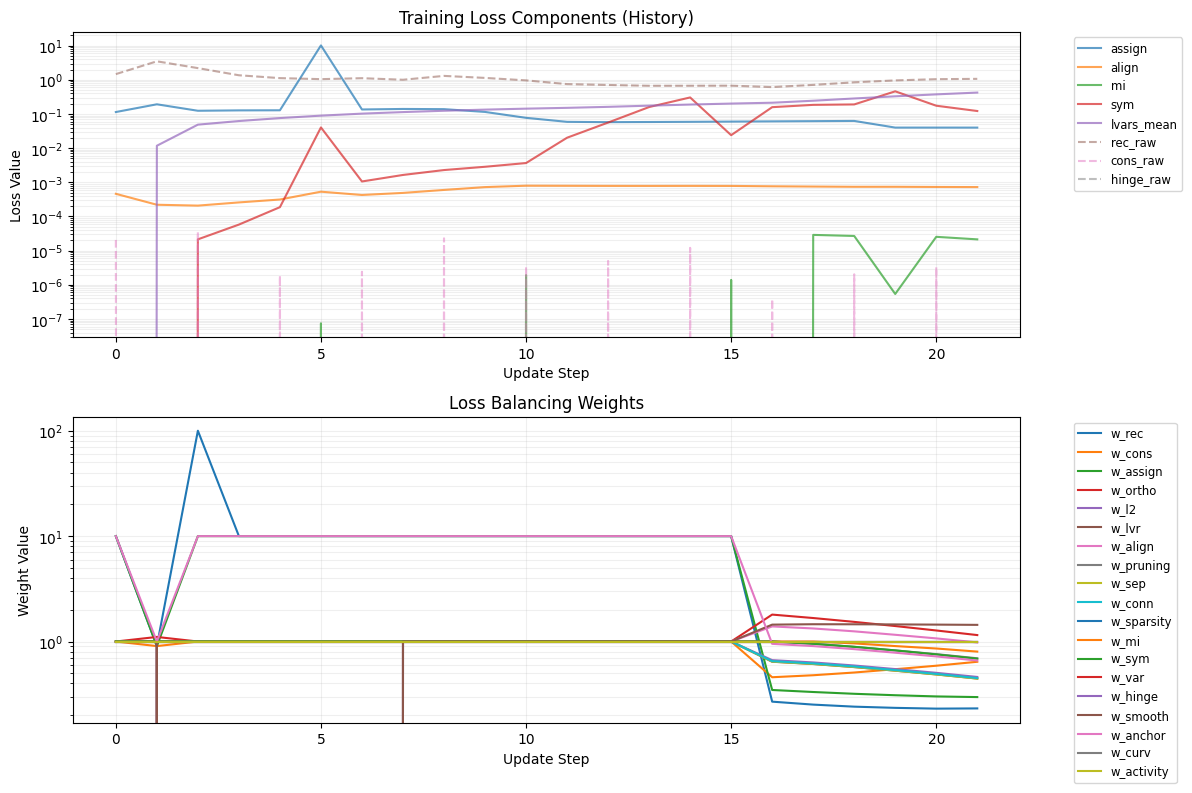
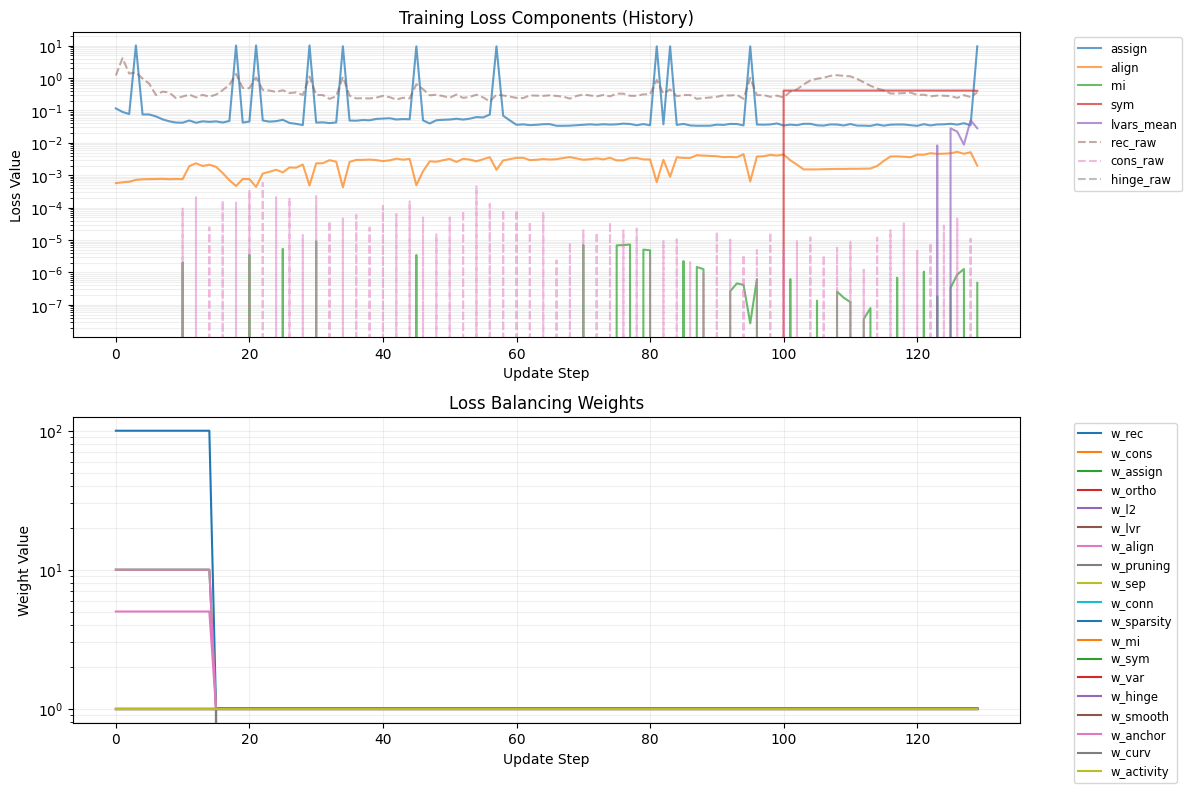
updated

diff --git a/engine.py b/engine.py
@@ -223,10 +223,6 @@ class Trainer:
         self.optimizer = optim.Adam(param_groups, lr=lr)
         self.criterion = torch.nn.MSELoss().to(device)
         self.stats = stats
-        
-        # Initialize GradNorm Balancer
-        self.grad_norm_balancer = GradNormBalancer(n_tasks=len(self.loss_groups), device=device)
-        self.gn_optimizer = optim.Adam(self.grad_norm_balancer.parameters(), lr=1e-2)
 
     def _prepare_param_groups(self, lr):
         h_net_params = []
@@ -297,18 +293,26 @@ class Trainer:
         
         return tau, hard, tf_ratio, entropy_weight
 
-    def _compute_hamiltonian_curv_loss(self, z_curr):
-        loss_curv = torch.tensor(0.0, device=self.device)
-        if self.model.hamiltonian:
-            with torch.set_grad_enabled(True):
-                z_in = z_curr.reshape(z_curr.size(0), -1).detach().requires_grad_(True)
-                z_in_ode = self.hardware.to_ode_device(z_in)
-                H_vals = self.model.ode_func.hamiltonian(z_in_ode)
-                H = H_vals.sum()
-                dH = torch.autograd.grad(H, z_in_ode, create_graph=True, retain_graph=True, allow_unused=True)[0]
-                if dH is not None:
-                    loss_curv = torch.norm(self.hardware.to_main_device(dH), p=2) + 0.01 * torch.mean(self.hardware.to_main_device(H_vals)**2)
-        return loss_curv
+    def _compute_hamiltonian_conservation_loss(self, z_preds):
+        """
+        Penalizes the variance of the Hamiltonian along the integrated trajectory.
+        This ensures the learned H is a true constant of motion.
+        """
+        if not self.model.hamiltonian or z_preds.size(0) < 2:
+            return torch.tensor(0.0, device=self.device)
+            
+        with torch.set_grad_enabled(True):
+            # z_preds: [T, B, K, D] -> flatten to [T*B, K*D]
+            T, B, K, D = z_preds.shape
+            z_flat = z_preds.reshape(-1, K * D)
+            z_in_ode = self.hardware.to_ode_device(z_flat)
+            
+            H_vals = self.model.ode_func.hamiltonian(z_in_ode)
+            H_vals = H_vals.view(T, B) # [T, B]
+            
+            # Variance over time for each batch element
+            H_var = torch.var(H_vals, dim=0).mean()
+            return self.hardware.to_main_device(H_var)
 
     def _compute_latent_smoothing_loss(self, z_preds):
         if z_preds.size(0) < 3:
@@ -441,15 +445,6 @@ class Trainer:
             1.0 * losses_all.get('temporal_consistency', 0.0)
         )
 
-        # OPTIMIZATION: Skip expensive losses if weight is zero
-        loss_curv = torch.tensor(0.0, device=self.device)
-        if is_stage2 and not is_stage1:
-             loss_curv = self._compute_hamiltonian_curv_loss(z_curr)
-
-        loss_sym = torch.tensor(0.0, device=self.device)
-        if self.symbolic_proxy is not None and not is_warmup:
-            loss_sym = self._compute_symbolic_loss(z_curr, is_warmup)
-
         if not is_warmup:
             progress_after_warmup = min(1.0, (epoch - int(max_epochs * 0.1)) / 100.0)
             target_integration_steps = max(4, int(progress_after_warmup * seq_len))
@@ -476,6 +471,15 @@ class Trainer:
                 z_preds = z_preds[:seq_len]
         else:
             z_preds = z_all_target
+
+        # OPTIMIZATION: Skip expensive losses if weight is zero
+        loss_curv = torch.tensor(0.0, device=self.device)
+        if is_stage2 and not is_stage1:
+             loss_curv = self._compute_hamiltonian_conservation_loss(z_preds)
+
+        loss_sym = torch.tensor(0.0, device=self.device)
+        if self.symbolic_proxy is not None and not is_warmup:
+            loss_sym = self._compute_symbolic_loss(z_curr, is_warmup)
 
         loss_l2 = torch.mean(z_preds**2) * 0.1
         z_vel = (z_preds[1:] - z_preds[:-1]) / dt
@@ -521,11 +525,15 @@ class Trainer:
         lvars = torch.clamp(self.model.log_vars, min=-6.0, max=5.0)
         raw_losses = {'rec': loss_rec, 'cons': loss_cons, 'assign': loss_assign, 'ortho': loss_ortho, 'l2': loss_l2, 'lvr': loss_lvr, 'align': loss_align, 'pruning': loss_pruning, 'sep': loss_sep, 'conn': loss_conn, 'sparsity': loss_sparsity, 'mi': loss_mi, 'sym': loss_sym, 'var': loss_var, 'hinge': loss_hinge, 'smooth': loss_smooth, 'anchor': loss_anchor, 'curv': loss_curv, 'activity': (torch.relu(1.0 - torch.norm(z_vel, dim=-1)).mean() if len(z_vel) > 0 else self.model.get_activity_penalty(z_preds)) * 1000.0}
         
-        weights = {k: (100.0 if is_stage1 and k == 'rec' else (10.0 if k in ['rec', 'assign', 'anchor'] else 1.0)) for k in raw_losses}
-        if epoch >= int(max_epochs * 0.75):
-            for i, k in enumerate(list(raw_losses.keys())[:17]): weights[k] = torch.exp(-lvars[i]) * loss_multipliers[i]
-        
-        if epoch < (max_epochs * 0.3): weights['l2'] = weights['lvr'] = weights['smooth'] = 0.0
+        # Base weights for stability during warmup/stage1
+        weights = {k: 1.0 for k in raw_losses}
+        if is_stage1:
+            weights['rec'] = 100.0
+            weights['assign'] = 10.0
+            weights['anchor'] = 10.0
+            weights['align'] = 5.0
+            # Suppress complex physics losses in stage 1
+            for k in ['curv', 'sym', 'lvr', 'smooth']: weights[k] = 0.0
         
         stage2_factor = (1.0 / (1 + np.exp(-12.0 * (min(1.0, (epoch - stage1_end) / max(1, int(max_epochs * 0.1))) - 0.5)))) if is_stage2 else 0.0
 
@@ -536,24 +544,17 @@ class Trainer:
             'SymbolicConsistencyLoss': self.loss_modules['SymbolicConsistencyLoss'](loss_sym * weights['sym'], stage2_factor, self.symbolic_weight)
         }
 
-        if epoch >= stage1_end:
+        # Apply learned uncertainty weighting (log_vars) after stage 1
+        loss = 0.0
+        if not is_stage1:
             for i, (name, h_loss) in enumerate(head_losses_dict.items()):
-                if i < 4: head_losses_dict[name] = h_loss * torch.exp(-lvars[i]) + lvars[i]
-
-        do_grad_norm = (epoch > int(max_epochs * 0.1)) and not is_stage1
-        if do_grad_norm:
-            gn_weights = self.grad_norm_balancer.get_weights()
-            head_names = ['ReconstructionLoss', 'StructuralLoss', 'PhysicalityLoss', 'SymbolicConsistencyLoss']
-            head_losses_list = [head_losses_dict[h] for h in head_names]
-            loss = sum(gn_weights[i] * head_losses_list[i] for i in range(len(head_names)))
-            loss.backward(retain_graph=True)
-            self.grad_norm_balancer.update(head_losses_list, list(self.model.encoder.parameters()), self.gn_optimizer)
-            self.gn_optimizer.step(); self.gn_optimizer.zero_grad()
-        elif self.use_pcgrad and (epoch > int(max_epochs * 0.1)) and not is_stage1:
-            self._apply_pcgrad(head_losses_dict)
-            loss = torch.stack(list(head_losses_dict.values())).sum()
+                loss += h_loss * torch.exp(-lvars[i]) + lvars[i]
         else:
-            loss = torch.stack(list(head_losses_dict.values())).sum()
+            loss = sum(head_losses_dict.values())
+
+        if self.use_pcgrad and (epoch > int(max_epochs * 0.1)) and not is_stage1:
+            self._apply_pcgrad(head_losses_dict)
+        else:
             loss = torch.clamp(loss + 0.1 * torch.sum(lvars**2), 1e-4, 1e5)
             if self.enable_gradient_accumulation: (loss / self.grad_acc_steps).backward()
             else: loss.backward()

diff --git a/enhanced_symbolic.py b/enhanced_symbolic.py
@@ -478,9 +478,9 @@ class EnhancedSymbolicDistiller(SymbolicDistiller):
     4. Better handling of physics-specific parameters
     """
 
-    def __init__(self, populations=5000, generations=60, stopping_criteria=0.0001, max_features=15,
+    def __init__(self, populations=5000, generations=60, stopping_criteria=0.0001, max_features=10,
                  secondary_optimization=True, opt_method='L-BFGS-B', opt_iterations=200,
-                 use_sindy_pruning=True, sindy_threshold=0.01, **kwargs):
+                 use_sindy_pruning=True, sindy_threshold=0.05, **kwargs):
         super().__init__(populations, generations, stopping_criteria, max_features)
         self.secondary_optimization = secondary_optimization
         self.opt_method = opt_method
@@ -598,9 +598,9 @@ class EnhancedSymbolicDistiller(SymbolicDistiller):
                     coeffs = model.coef_
                     for idx, coef in enumerate(coeffs):
                         if abs(coef) > 1e-6:
-                            # Map back to original feature index
-                            orig_idx = feature_indices[idx]
-                            terms.append(f"mul({coef:.6f}, X{orig_idx})")
+                            # Use local index (idx) instead of mapping back to original
+                            # This ensures consistency with GP and the sliced input matrix
+                            terms.append(f"mul({coef:.6f}, X{idx})")
                     
                     if not terms:
                         # If everything is extremely small, check if intercept is actually non-zero
@@ -623,14 +623,14 @@ class EnhancedSymbolicDistiller(SymbolicDistiller):
             selected_indices = np.where(full_mask)[0]
             return LinearProgram(ridge, selected_indices), full_mask, linear_score
 
-        parsimony_levels = [0.001, 0.01, 0.05, 0.1]
-        complexity_factor = max(1.0, 3.0 * (1.0 - linear_score))
+        parsimony_levels = [0.01, 0.05] # Reduced from [0.001, 0.01, 0.05, 0.1]
+        complexity_factor = max(1.0, 2.0 * (1.0 - linear_score)) # Reduced from 3.0
         scaled_pop = int(self.populations * complexity_factor)
-        scaled_pop = min(scaled_pop, 10000)
+        scaled_pop = min(scaled_pop, 5000) # Reduced from 10000
 
         candidates = []
         for p_coeff in parsimony_levels:
-            est = self._get_regressor(scaled_pop, self.generations // 2, parsimony=p_coeff)
+            est = self._get_regressor(scaled_pop, min(self.generations // 2, 20), parsimony=p_coeff) # Cap gens
             try:
                 # Force float64 for stability
                 X_gp = X_selected.astype(np.float64)
@@ -681,22 +681,22 @@ class EnhancedSymbolicDistiller(SymbolicDistiller):
         if not candidates:
             return None, full_mask, 0.0
 
-        # Pareto Frontier Selection: REDUCED COMPLEXITY PENALTY IF R2 SCORE IS BELOW 0.9
+        # Pareto Frontier Selection: HARSHER COMPLEXITY PENALTY
         for c in candidates:
             # Adjusted score: R2 penalized by complexity and dimension
             if c['score'] < 0.9:
-                c['pareto_score'] = c['score'] - 0.005 * c['complexity'] - c.get('dim_penalty', 0.0)
+                c['pareto_score'] = c['score'] - 0.02 * c['complexity'] - c.get('dim_penalty', 0.0)
             else:
-                c['pareto_score'] = c['score'] - 0.015 * c['complexity'] - c.get('dim_penalty', 0.0)
+                c['pareto_score'] = c['score'] - 0.04 * c['complexity'] - c.get('dim_penalty', 0.0)
 
         candidates.sort(key=lambda x: x['pareto_score'], reverse=True)
         best_candidate = candidates[0]
 
-        # If the best candidate still has a very high complexity (> 20 nodes),
+        # If the best candidate still has a very high complexity (> 15 nodes),
         # look for a significantly simpler one that is still reasonably accurate.
-        if best_candidate['complexity'] > 20:
+        if best_candidate['complexity'] > 15:
             for c in candidates[1:]:
-                if c['complexity'] < 10 and (best_candidate['score'] - c['score']) < 0.08:
+                if c['complexity'] < 8 and (best_candidate['score'] - c['score']) < 0.1:
                     best_candidate = c
                     break
 

diff --git a/balanced_features.py b/balanced_features.py
@@ -16,7 +16,7 @@ class BICFeatureSelector:
     Selects features using Lasso with Bayesian Information Criterion (BIC).
     BIC penalizes complexity more harshly than AIC or CV, leading to more parsimonious models.
     """
-    def __init__(self, max_features=100, min_variance=1e-6):
+    def __init__(self, max_features=40, min_variance=1e-6):
         self.max_features = max_features
         self.min_variance = min_variance
         self.selected_indices = []
@@ -85,7 +85,7 @@ class RecursiveFeatureSelector:
     Selects features recursively by iteratively adding the most informative ones.
     This prevents the combinatorial explosion of polynomial terms.
     """
-    def __init__(self, max_features=100, tolerance=1e-4, min_variance=1e-6):
+    def __init__(self, max_features=40, tolerance=1e-4, min_variance=1e-6):
         self.max_features = max_features
         self.tolerance = tolerance
         self.min_variance = min_variance
@@ -520,11 +520,11 @@ class BalancedFeatureTransformer:
         n_features = X.shape[1]
 
         if self.feature_selection_method == 'bic':
-            self.bic_selector = BICFeatureSelector(max_features=min(150, n_features))
+            self.bic_selector = BICFeatureSelector(max_features=min(30, n_features))
             self.bic_selector.fit(X, y)
             self.selected_feature_indices = self.bic_selector.selected_indices
         elif self.feature_selection_method == 'recursive':
-            self.recursive_selector = RecursiveFeatureSelector(max_features=min(200, n_features))
+            self.recursive_selector = RecursiveFeatureSelector(max_features=min(40, n_features))
             self.recursive_selector.fit(X, y)
             self.selected_feature_indices = self.recursive_selector.selected_indices
         elif self.feature_selection_method == 'lasso':

diff --git a/unified_train.py b/unified_train.py
@@ -274,10 +274,10 @@ def main():
     # --- SELF-CORRECTION LOOP ---
     # OPTIMIZATION: Reduce retries and ensemble size for quick/short runs
     is_quick = args.quick_symbolic or args.epochs < 50
-    MAX_RETRIES = 0 if is_quick else 2
-    pop_size = 500 if is_quick else args.pop
-    gen_size = 5 if is_quick else args.gen
-    ensemble_size = 2 if is_quick else 5
+    MAX_RETRIES = 0 if is_quick else 1
+    pop_size = 500 if is_quick else min(args.pop, 2000)
+    gen_size = 5 if is_quick else min(args.gen, 20)
+    ensemble_size = 2 if is_quick else 3
     
     bench_report = {}
     for attempt in range(MAX_RETRIES + 1):
@@ -368,7 +368,7 @@ def main():
     if trainer.symbolic_proxy is not None:
         print("\n--- Starting Stage 3: Neural-Symbolic Consistency Training ---")
         # OPTIMIZATION: Scale stage 3 epochs
-        stage3_epochs = 20 if is_quick else 100 
+        stage3_epochs = 15 if is_quick else 30 
         trainer.model.train()
         # Increase symbolic weight to force alignment
         trainer.symbolic_weight = 50.0 # Aggressive alignment

diff --git a/physics_benchmark.py b/physics_benchmark.py
@@ -13,7 +13,7 @@ from simulator import SpringMassSimulator
 from enhanced_symbolic import gp_to_sympy
 import sympy as sp
 
-def calculate_energy_drift(proxy, z0, steps=5000, dt=0.01):
+def calculate_energy_drift(proxy, z0, steps=1000, dt=0.01):
     """Calculates max relative energy drift over a long shadow integration."""
     device = torch.device('cpu') # Use CPU for long integration stability
     proxy = proxy.to(device)
@@ -214,7 +214,7 @@ def run_benchmark(model, equations, r2_scores, transformer, test_data_path=None)
     forecast_horizon = calculate_forecast_horizon(proxy, z_gt, dt=sim.dt)
     mass_consistency = calculate_mass_consistency(model, test_dataset)
     parsimony = calculate_parsimony_index(equations, r2_scores)
-    lyapunov = calculate_lyapunov_exponent(proxy, z0, steps=1000, dt=sim.dt)
+    lyapunov = calculate_lyapunov_exponent(proxy, z0, steps=200, dt=sim.dt)
     
     # 4. Symbolic R2 (OOD)
     # We evaluate how well the proxy predicts dz/dt on OOD data
